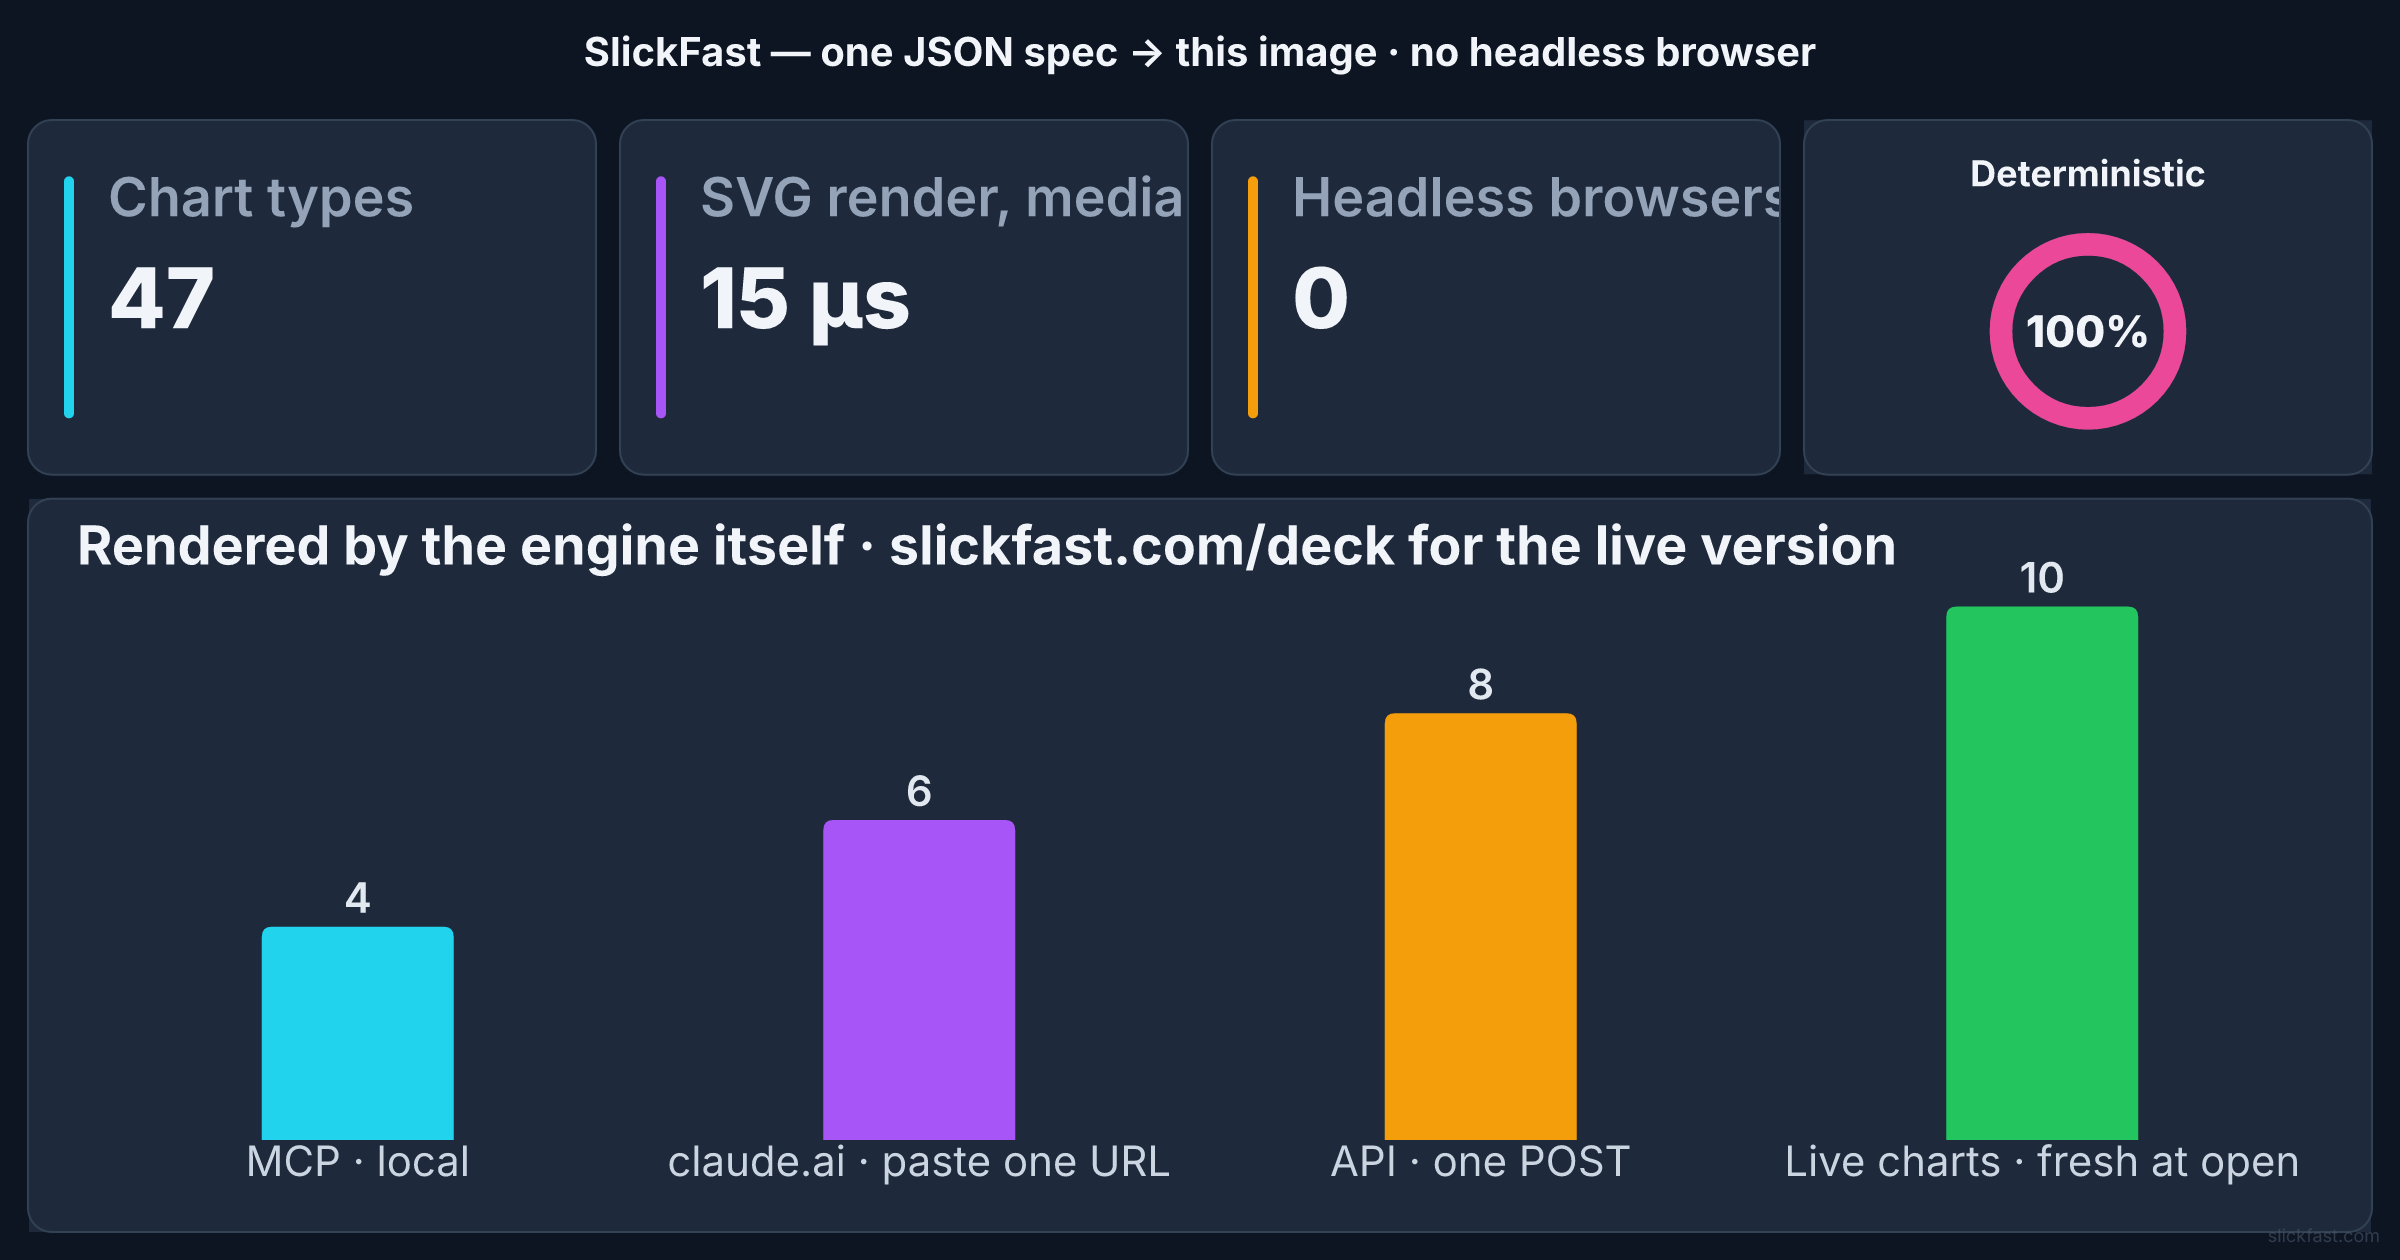
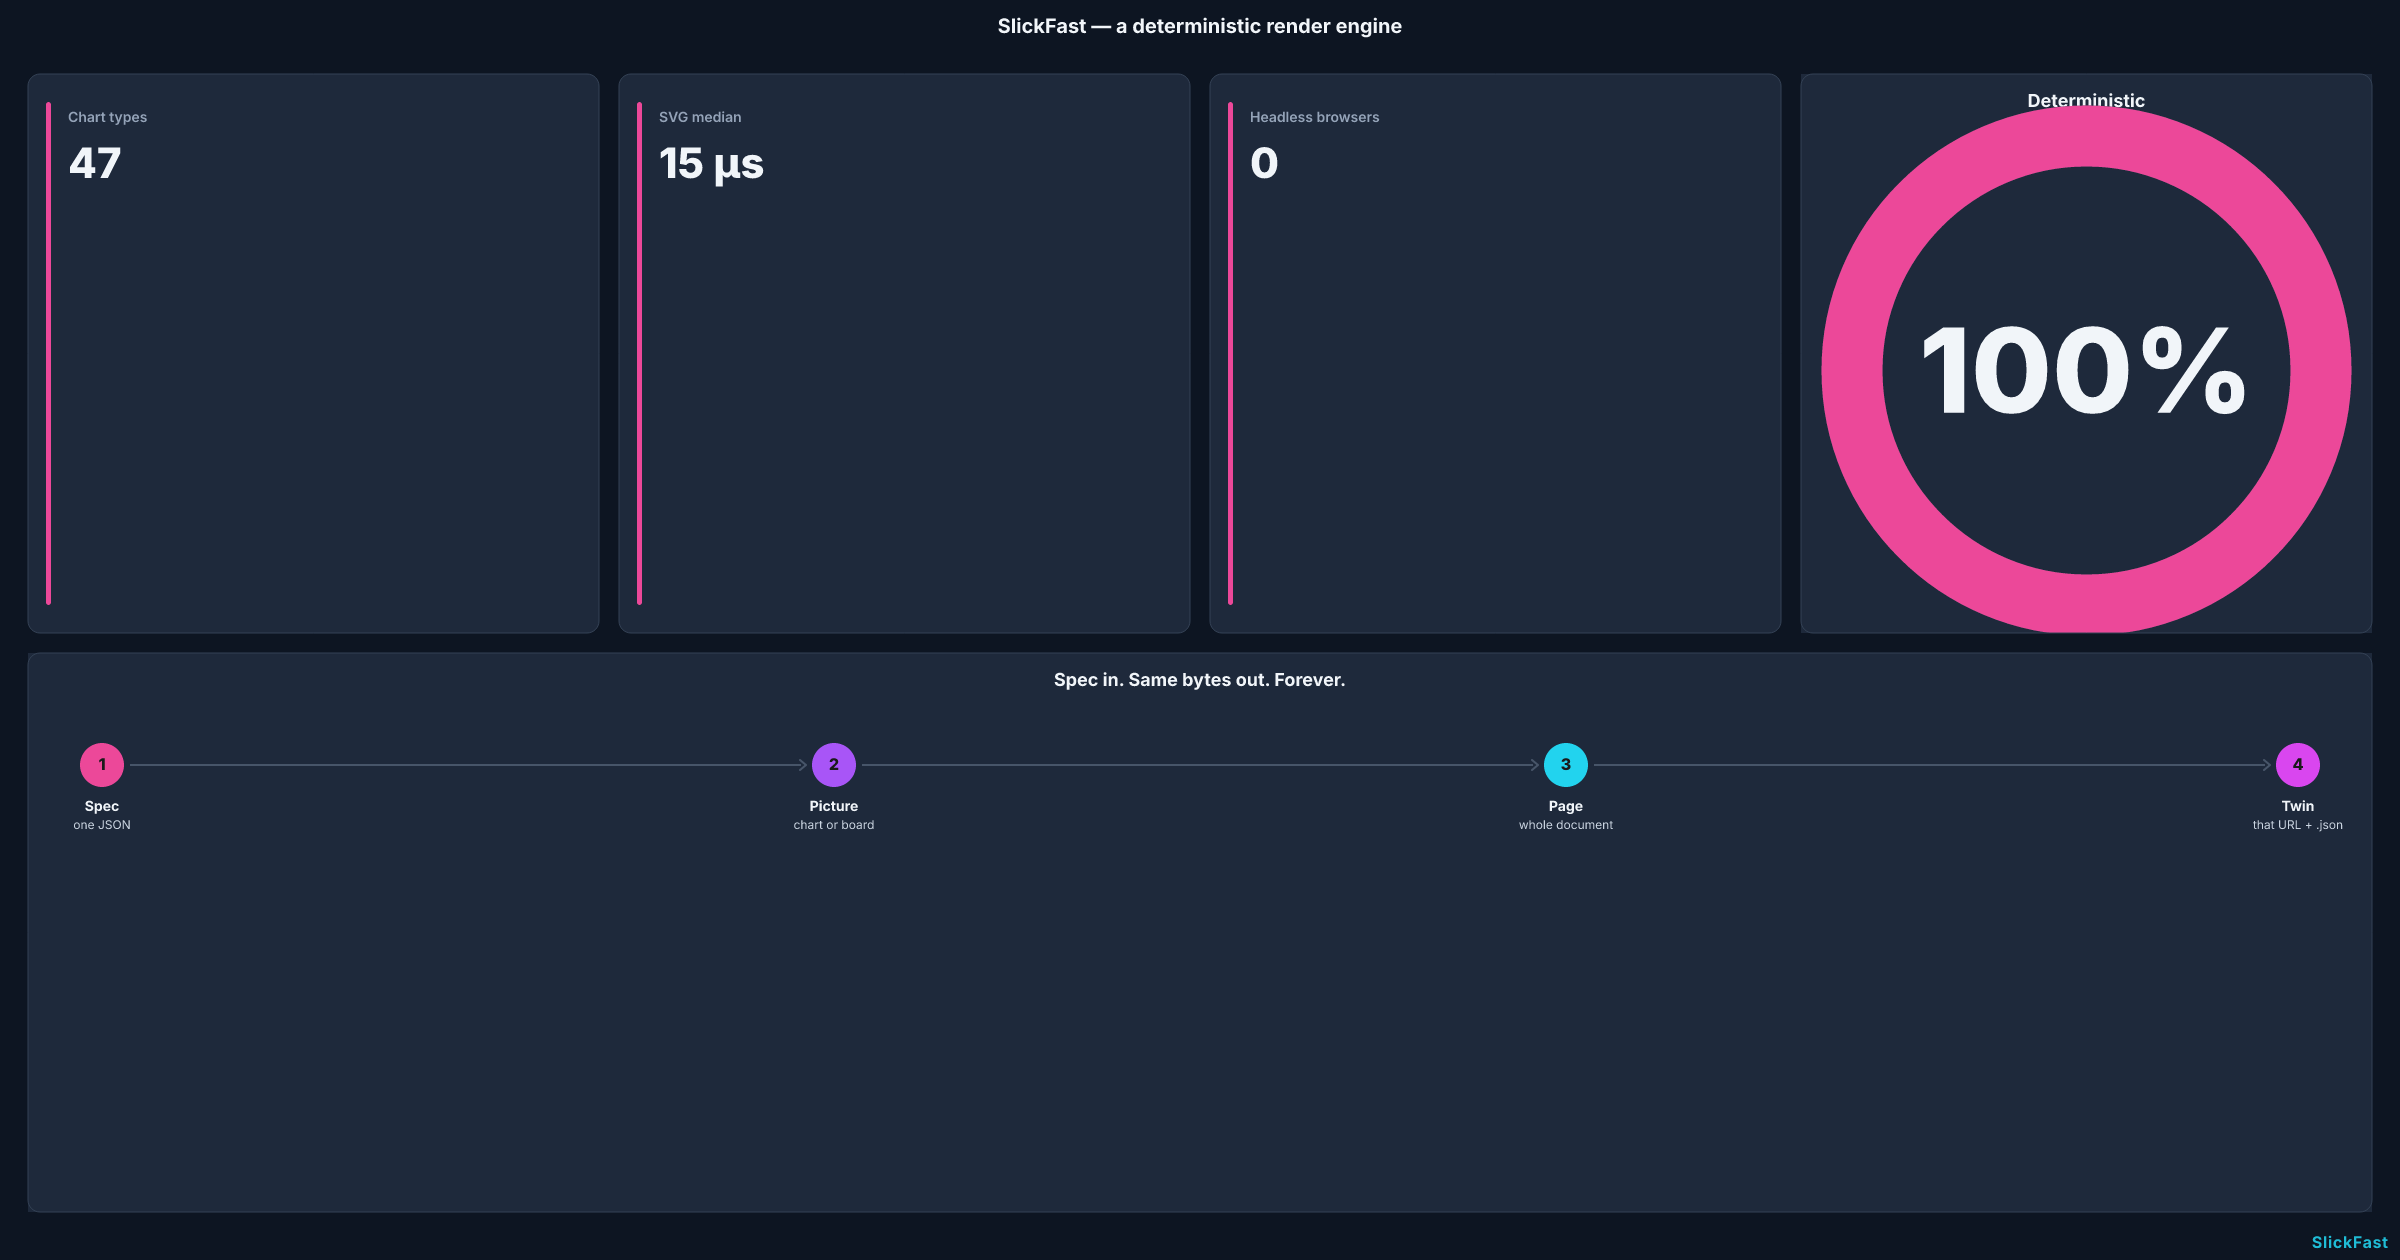
Align the rest of the site with the engine-first homepage.
License lede and pricing no longer sound like a solo exemption. Why sits with the Pages. One live pulse. Share card and docs match.

diff --git a/index.html b/index.html
@@ -37,6 +37,9 @@
 <link rel="icon" type="image/svg+xml" href="/favicon.svg">
 <link rel="icon" type="image/png" href="/favicon-32.png" sizes="32x32">
 <link rel="apple-touch-icon" href="/apple-touch-icon.png">
+<link rel="preconnect" href="https://fonts.googleapis.com">
+<link rel="preconnect" href="https://fonts.gstatic.com" crossorigin>
+<link href="https://fonts.googleapis.com/css2?family=Inter:wght@400;600;700;800&display=swap" rel="stylesheet">
 <style>
   :root{
     --bg:#0d1522; --card:#16202f; --border:#243044;
@@ -285,7 +288,7 @@
   <div class="wrap">
     <div class="kicker">Live examples</div>
     <h2>Open the Page. Add .json. Look at the bottom.</h2>
-    <p class="sectionsub">Each of these is a real Page. Don’t trust us — check the math.</p>
+    <p class="sectionsub">Each of these is a real Page.</p>
     <div class="exgrid">
       <a class="ex" href="https://pages.slickfast.com/s/6ced56513246042c765dace4d4ec77b6">
         <b>A deterministic render engine</b>
@@ -307,12 +310,29 @@
         <span>One dataset, three chart types.</span>
         <span class="twin">Twin → add .json</span>
       </a>
-      <a class="ex" href="https://pages.slickfast.com/s/f354bad8065c5251aa4904b1a6351644">
+      <a class="ex" href="https://pages.slickfast.com/s/5dd4e4224c7a37461c212eff19e34ced">
         <b>Catch the Tamper</b>
         <span>What happens when the data is altered.</span>
         <span class="twin">Twin → add .json</span>
       </a>
+      <a class="ex" href="https://pages.slickfast.com/s/62f561c77ed8f58bec9b52acc6a970cc">
+        <b>Get started</b>
+        <span>First-minute map for people and agents.</span>
+        <span class="twin">Twin → add .json</span>
+      </a>
     </div>
+  </div>
+</section>
+
+<section id="why">
+  <div class="wrap">
+    <div class="kicker">Why it matters</div>
+    <h2>Agents cannot draw. They can only write code.</h2>
+    <p class="sectionsub" style="margin-bottom:0">They force a browser to paint a picture, then take a
+    screenshot they can’t even verify. SlickFast doesn’t use a browser. It <b>renders</b>.
+    Spec in, same bytes out. Forever. The twin at <code>.json</code> is the exact recipe —
+    the source, not an export. The fingerprint on the Page is the proof it matches.
+    Don’t trust us. Check the math.</p>
   </div>
 </section>
 
@@ -321,7 +341,7 @@
     <div class="kicker">Try it</div>
     <h2>A chart needs no key. A public Page does.</h2>
     <p class="sectionsub">Connect local MCP, then ask. Hosted MCP (claude.ai and cloud agents): paste
-    <code style="color:var(--teal)">mcp.slickfast.com</code> — that path is metered like the API.</p>
+    <code style="color:var(--teal)">https://mcp.slickfast.com/mcp</code> — that path is metered like the API.</p>
     <div class="trygrid">
       <div class="try">
         <b>On your machine — no key</b>
@@ -397,16 +417,7 @@
     then push new data whenever it changes. Every copy, everywhere, updates. SVG median in the
     public bench is about 15 microseconds; that is the engine clock, not the network.</p>
 
-    <div class="herochart">
-      <img src="https://api.slickfast.com/live/7eb0085dd74015764d54ec73ce4ee8bf.svg"
-        alt="SlickFast's own live pulse dashboard — real npm downloads, GitHub stats, CI health and commit activity, updating automatically"
-        width="1404" height="835">
-      <div class="liveline"><span class="dot"></span><b>This image is live.</b> These are our
-      real numbers, right now — npm downloads, CI, commits — refreshed automatically by a
-      20-line script. Nobody re-uploads this image. Yours can do this.</div>
-    </div>
-
-    <p class="sectionsub" style="margin-top:26px"><b>The whole trick, in three lines:</b><br>
+    <p class="sectionsub" style="margin-top:8px"><b>The whole trick, in three lines:</b><br>
     1&nbsp;·&nbsp;<b>Create</b> — one call stores your chart and returns its permanent URL.<br>
     2&nbsp;·&nbsp;<b>Push</b> — your script (or your AI agent) sends fresh numbers whenever they change.<br>
     3&nbsp;·&nbsp;<b>Done</b> — every embed of that URL shows the latest data within seconds of a
@@ -437,18 +448,6 @@
   </div>
 </section>
 
-<section id="why">
-  <div class="wrap">
-    <div class="kicker">Why it matters</div>
-    <h2>Agents cannot draw. They can only write code.</h2>
-    <p class="sectionsub" style="margin-bottom:0">They force a browser to paint a picture, then take a
-    screenshot they can’t even verify. SlickFast doesn’t use a browser. It <b>renders</b>.
-    Spec in, same bytes out. Forever. The twin at <code>.json</code> is the exact recipe —
-    the source, not an export. The fingerprint on the Page is the proof it matches.
-    Don’t trust us. Check the math.</p>
-  </div>
-</section>
-
 <section id="pricing">
   <div class="wrap">
     <div class="kicker">Pricing</div>
@@ -456,7 +455,7 @@
     <p class="sectionsub">A render is one chart, one dashboard, or one Page draw. CDN-cached — one render
     can serve any number of views.</p>
     <div class="freecall">
-      <h3>Using SlickFast with your agent? <span>That's free.</span></h3>
+      <h3>Local MCP is free. <span>A public URL is a plan.</span></h3>
       <p>The <b>local MCP</b> runs on your machine — <b>free forever, unlimited renders</b>, all 47
       types, no account, no card, nothing sent anywhere. The plans below are for the
       <b>hosted API</b> and <b>our MCP server</b>: public chart URLs, live charts, and Pages.

diff --git a/license.html b/license.html
@@ -10,6 +10,9 @@
 <link rel="icon" type="image/svg+xml" href="/favicon.svg">
 <link rel="icon" type="image/png" href="/favicon-32.png" sizes="32x32">
 <link rel="apple-touch-icon" href="/apple-touch-icon.png">
+<link rel="preconnect" href="https://fonts.googleapis.com">
+<link rel="preconnect" href="https://fonts.gstatic.com" crossorigin>
+<link href="https://fonts.googleapis.com/css2?family=Inter:wght@400;600;700;800&display=swap" rel="stylesheet">
 <style>
   :root{--bg:#0d1522;--card:#16202f;--border:#243044;--heading:#f1f5f9;--body:#c3cbd8;--muted:#8b9bb0;--teal:#22d3ee;--green:#22c55e}
   *{box-sizing:border-box}
@@ -68,10 +71,10 @@
 <div class="wrap">
 
 <h1>Commercial Licensing</h1>
-<p class="lede">SlickFast is free and open source under <a href="https://www.gnu.org/licenses/agpl-3.0.html">AGPL-3.0</a>.
+<p class="lede">SlickFast is open source under <a href="https://www.gnu.org/licenses/agpl-3.0.html">AGPL-3.0</a>.
 The licensed Software is the <b>drawing engine and packages</b> — JSON spec in, chart or whole
-<b>Page</b> out, same bytes forever. Non-commercial use is <b>free forever</b>. Embedding that
-engine in a commercial product takes a commercial license: cheap, per-app, no license keys,
+<b>Page</b> out, same bytes forever. Local MCP is free. Embedding that
+engine in a closed commercial product takes a commercial license: cheap, per-app, no license keys,
 no hoops.</p>
 <div class="meta">Licensor: SlickWorks LLC (Wyoming, USA) · Agreement <a href="license-agreement.html">v1.1</a></div>
 

diff --git a/docs.html b/docs.html
@@ -3,13 +3,16 @@
 <head>
 <meta charset="utf-8">
 <meta name="viewport" content="width=device-width, initial-scale=1">
-<title>SlickFast API Reference — JSON Chart Image API (OpenAPI)</title>
+<title>SlickFast API Reference — spec in, PNG or SVG out</title>
 <link rel="canonical" href="https://slickfast.com/docs.html">
-<meta name="description" content="SlickFast Chart API reference — send a JSON chart spec, get back a PNG or SVG. Rendered from the OpenAPI spec.">
+<meta name="description" content="SlickFast API — send a JSON spec, get a PNG or SVG. Same spec, same bytes. Rendered from the OpenAPI spec.">
 <link rel="icon" href="/favicon.ico" sizes="any">
 <link rel="icon" type="image/svg+xml" href="/favicon.svg">
 <link rel="icon" type="image/png" href="/favicon-32.png" sizes="32x32">
 <link rel="apple-touch-icon" href="/apple-touch-icon.png">
+<link rel="preconnect" href="https://fonts.googleapis.com">
+<link rel="preconnect" href="https://fonts.gstatic.com" crossorigin>
+<link href="https://fonts.googleapis.com/css2?family=Inter:wght@400;600;700;800&display=swap" rel="stylesheet">
 <style>
   body{margin:0}
   .topbar{background:#0d1522;border-bottom:1px solid #243044;padding:12px 24px;display:flex;align-items:center;gap:24px;font-family:Inter,system-ui,-apple-system,sans-serif;position:sticky;top:0;z-index:50}

diff --git a/deck.html b/deck.html
@@ -17,6 +17,9 @@
 <link rel="icon" type="image/svg+xml" href="/favicon.svg">
 <link rel="icon" type="image/png" href="/favicon-32.png" sizes="32x32">
 <link rel="apple-touch-icon" href="/apple-touch-icon.png">
+<link rel="preconnect" href="https://fonts.googleapis.com">
+<link rel="preconnect" href="https://fonts.gstatic.com" crossorigin>
+<link href="https://fonts.googleapis.com/css2?family=Inter:wght@400;600;700;800&display=swap" rel="stylesheet">
 <style>
   :root{--bg:#0a0c14;--card:#16202f;--border:#243044;--heading:#f1f5f9;--body:#c3cbd8;--muted:#8b9bb0;--teal:#22d3ee;--pink:#f43f5e;--green:#22c55e}
   *{box-sizing:border-box;margin:0;padding:0}
@@ -83,7 +86,7 @@
   </div>
 </div>
 
-<footer>SlickFast — charts &amp; dashboards for AI agents. <a href="/">Home</a> ·
+<footer>SlickFast — a deterministic render engine. <a href="/">Home</a> ·
 <a href="https://github.com/SlickFast/slickfast">GitHub</a></footer>
 
 <script>

diff --git a/deck/index.html b/deck/index.html
@@ -17,6 +17,9 @@
 <link rel="icon" type="image/svg+xml" href="/favicon.svg">
 <link rel="icon" type="image/png" href="/favicon-32.png" sizes="32x32">
 <link rel="apple-touch-icon" href="/apple-touch-icon.png">
+<link rel="preconnect" href="https://fonts.googleapis.com">
+<link rel="preconnect" href="https://fonts.gstatic.com" crossorigin>
+<link href="https://fonts.googleapis.com/css2?family=Inter:wght@400;600;700;800&display=swap" rel="stylesheet">
 <style>
   :root{--bg:#0a0c14;--card:#16202f;--border:#243044;--heading:#f1f5f9;--body:#c3cbd8;--muted:#8b9bb0;--teal:#22d3ee;--pink:#f43f5e;--green:#22c55e}
   *{box-sizing:border-box;margin:0;padding:0}
@@ -83,7 +86,7 @@
   </div>
 </div>
 
-<footer>SlickFast — charts &amp; dashboards for AI agents. <a href="/">Home</a> ·
+<footer>SlickFast — a deterministic render engine. <a href="/">Home</a> ·
 <a href="https://github.com/SlickFast/slickfast">GitHub</a></footer>
 
 <script>

diff --git a/404.html b/404.html
@@ -9,6 +9,9 @@
 <link rel="icon" type="image/svg+xml" href="/favicon.svg">
 <link rel="icon" type="image/png" href="/favicon-32.png" sizes="32x32">
 <link rel="apple-touch-icon" href="/apple-touch-icon.png">
+<link rel="preconnect" href="https://fonts.googleapis.com">
+<link rel="preconnect" href="https://fonts.gstatic.com" crossorigin>
+<link href="https://fonts.googleapis.com/css2?family=Inter:wght@400;600;700;800&display=swap" rel="stylesheet">
 <style>
   *{box-sizing:border-box;margin:0;padding:0}
   body{background:#0d1522;color:#c3cbd8;font-family:Inter,system-ui,-apple-system,sans-serif;min-height:100vh;display:flex;align-items:center;justify-content:center;text-align:center;padding:24px}

diff --git a/license-agreement.html b/license-agreement.html
@@ -10,6 +10,9 @@
 <link rel="icon" type="image/svg+xml" href="/favicon.svg">
 <link rel="icon" type="image/png" href="/favicon-32.png" sizes="32x32">
 <link rel="apple-touch-icon" href="/apple-touch-icon.png">
+<link rel="preconnect" href="https://fonts.googleapis.com">
+<link rel="preconnect" href="https://fonts.gstatic.com" crossorigin>
+<link href="https://fonts.googleapis.com/css2?family=Inter:wght@400;600;700;800&display=swap" rel="stylesheet">
 <style>
   :root{--bg:#0d1522;--card:#16202f;--border:#243044;--heading:#f1f5f9;--body:#c3cbd8;--muted:#8b9bb0;--teal:#22d3ee}
   *{box-sizing:border-box}

diff --git a/privacy.html b/privacy.html
@@ -11,6 +11,9 @@
 <link rel="icon" type="image/svg+xml" href="/favicon.svg">
 <link rel="icon" type="image/png" href="/favicon-32.png" sizes="32x32">
 <link rel="apple-touch-icon" href="/apple-touch-icon.png">
+<link rel="preconnect" href="https://fonts.googleapis.com">
+<link rel="preconnect" href="https://fonts.gstatic.com" crossorigin>
+<link href="https://fonts.googleapis.com/css2?family=Inter:wght@400;600;700;800&display=swap" rel="stylesheet">
 <style>
   :root{--bg:#0d1522;--card:#16202f;--border:#243044;--heading:#f1f5f9;--body:#c3cbd8;--muted:#8b9bb0;--teal:#22d3ee}
   *{box-sizing:border-box}

diff --git a/terms.html b/terms.html
@@ -11,6 +11,9 @@
 <link rel="icon" type="image/svg+xml" href="/favicon.svg">
 <link rel="icon" type="image/png" href="/favicon-32.png" sizes="32x32">
 <link rel="apple-touch-icon" href="/apple-touch-icon.png">
+<link rel="preconnect" href="https://fonts.googleapis.com">
+<link rel="preconnect" href="https://fonts.gstatic.com" crossorigin>
+<link href="https://fonts.googleapis.com/css2?family=Inter:wght@400;600;700;800&display=swap" rel="stylesheet">
 <style>
   :root{--bg:#0d1522;--card:#16202f;--border:#243044;--heading:#f1f5f9;--body:#c3cbd8;--muted:#8b9bb0;--teal:#22d3ee}
   *{box-sizing:border-box}

diff --git a/success.html b/success.html
@@ -9,6 +9,9 @@
 <link rel="icon" type="image/svg+xml" href="/favicon.svg">
 <link rel="icon" type="image/png" href="/favicon-32.png" sizes="32x32">
 <link rel="apple-touch-icon" href="/apple-touch-icon.png">
+<link rel="preconnect" href="https://fonts.googleapis.com">
+<link rel="preconnect" href="https://fonts.gstatic.com" crossorigin>
+<link href="https://fonts.googleapis.com/css2?family=Inter:wght@400;600;700;800&display=swap" rel="stylesheet">
 <style>
   :root{
     --bg:#0d1522; --card:#16202f; --border:#243044;
